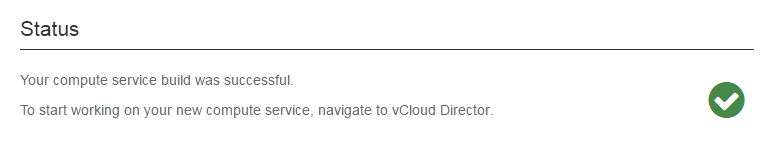
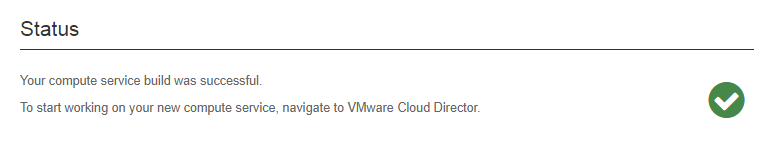
VMware getting started updates

Changed region(s): [[0.0, 0.6667, 0.6512, 0.8], [0.0, 0.48, 0.3721, 0.5867]]

diff --git a/articles/vmware/vmw-gs.md b/articles/vmware/vmw-gs.md
@@ -4,7 +4,7 @@ description: Provides information to get up and running with UKCloud for VMware
 services: vmware
 author: shighmoor
 reviewer: shighmoor
-lastreviewed: 10/09/2020
+lastreviewed: 24/09/2021
 
 toc_rootlink: Getting Started
 toc_sub1:
@@ -20,23 +20,19 @@ toc_mdlink: vmw-gs.md
 
 ## Overview
 
-If you're new to UKCloud, you'll probably have received a link to this guide as part of your welcome email. It will help you to get started using UKCloud for VMware.
+UKCloud for VMware is a trusted, connected and flexible cloud, based on VMware technology, that enables you to either migrate existing workloads or create new workloads on our secure sovereign cloud platform quickly and easily whilst enjoying the economies of scale of the cloud.
 
-The Getting Started Guide provides an overview of UKCloud for VMware and gives you basic information about how to log in and set up your environment.
+This Getting Started Guide helps get you up and running using UKCloud for VMware, providing basic information about how to log in and set up your environment.
 
 ### Intended audience
 
-To complete the steps in this guide you must have access to the UKCloud Portal and VMware Cloud Director. To build compute services and virtual data centres (VDCs) you must be a VMware Cloud Director administrator.
-
-## Before you begin
-
-You should have received your UKCloud Portal login credentials from your Service Delivery Manager (SDM).
+This article is intended for any new UKCloud for VMware user. To complete the steps in this article you must have access to the UKCloud Portal and VMware Cloud Director. To build compute services and virtual data centres (VDCs) you must be a VMware Cloud Director administrator.
 
 ## Introductions to UKCloud for VMware
 
-We understand that each enterprise application has its own set of technical and service requirements that must be addressed on an individual basis. UKCloud for VMware is highly configurable, and gives you the flexibility to use different service levels, VM sizes, security domains, connectivity and data protection options.
+We understand that each enterprise application has its own set of technical and service requirements that must be addressed on an individual basis. UKCloud for VMware is highly configurable and gives you the flexibility to use different service levels, VM sizes, security domains, connectivity and data protection options.
 
-You can build completely tailored solutions by mixing and matching service options. The choice doesn't lock you to one service or size and you can always change it later.
+You can build completely tailored solutions by mixing and matching service options. The choice doesn't lock you in to one service or size and you can always change it later.
 
 Services within UKCloud belong to an account, which in turn belongs to a company. A company can own multiple accounts. You can use accounts to create separate environments for different projects or, in the case of UKCloud partners, to create separate environments for different customers. Within an account you can have multiple UKCloud services, one of which could be UKCloud for VMware. You can have multiple instances of a service within an account.
 
@@ -44,31 +40,17 @@ Services within UKCloud belong to an account, which in turn belongs to a company
 
 ## Logging in to the UKCloud Portal
 
-The first thing you need to do to get started with UKCloud for VMware is to log in to the UKCloud Portal.
+You access your UKCloud for VMware environment through the UKCloud Portal, so the first thing you need to do to get started is to log in to the Portal.
 
-1. Go to the appropriate URL, depending on the security domain in which your service is located:
+The location of the Portal depends on the security domain your service is located in:
 
-    - **Assured OFFICIAL:** <https://portal.ukcloud.com>
+- **Assured OFFICIAL:** <https://portal.ukcloud.com>
 
-    - **Elevated OFFICIAL:** Contact your Portal administrator or SDM
+- **Elevated OFFICIAL:** Contact your Portal administrator, your Service Delivery Manager (or <servicedelivery@ukcloud.com>), or UKCloud Support (call 01252 303 300 and select option 2)
 
-2. On the *Log in* page, enter your credentials and click **Sign in**.
+You'll need your Portal credentials, which you should have received from your Portal administrator or the Service Delivery team. You may also need to set up two-factor authentication (2FA).
 
-    ![UKCloud Portal Log in page](images/ptl-login.png)
-
-    > [!TIP]
-    > If you've forgotten your password, click the **Forgotten password?** link to request a password reset.
-
-    If this is the first time you've logged in, use the temporary password you were given by your Portal administrator or SDM. You'll be prompted to change this temporary password.
-
-3. If your Portal administrator has enabled two-factor authentication (2FA), you'll be prompted to enter a six digit code. Use your 2FA app to generate the code and enter it here. (If this is the first time you've logged in, you'll be prompted to set up 2FA.)
-
-    ![Two-Factor Authentication dialog box](images/vmw-portal-2fa.png)
-
-    > [!NOTE]
-    > If you incorrectly enter your password three times, you'll be prompted to enter a captcha code until you successfully log in. If you incorrectly enter the captcha code or your password another three times, a seventh unsuccessful login attempt will result in your account being locked. You'll need to contact your Portal administrator to unlock your account.
-
-For more information about the UKCloud Portal and all the functionality it provides, see the [*Getting Started Guide for the UKCloud Portal*](../portal/ptl-gs.md).
+For detailed instructions for how to log in to the Portal, and for more information about all the functionality it provides, see the [*Getting Started Guide for the UKCloud Portal*](../portal/ptl-gs.md).
 
 ## Creating your UKCloud for VMware estate
 
@@ -148,11 +130,11 @@ After creating your compute service, the next step is to create one or more VDCs
 
 3. On the *Build VDC* page, from the **VM Type** radio buttons, select the option that describes the characteristics of the workload of the VDC:
 
-    - **ESSENTIAL**---For lower priority workloads, such as temporary applications, data processing or system modelling tasks. VMs in the VDC can have contended compute resource allocation (CPU/RAM) and automated rebalancing is enabled to ensure the workload receives the requested performance.
+    - **ESSENTIAL.** For lower priority workloads, such as temporary applications, data processing or system modelling tasks. VMs in the VDC can have contended compute resource allocation (CPU/RAM) and automated rebalancing is enabled to ensure the workload receives the requested performance.
 
-    - **POWER**---For key workloads that are resource intensive, such as web and application workloads, mid-sized databases and caching services. VMs in the VDC have an uncontended compute resource allocation and automated rebalancing is enabled to pre-emptively optimise performance and availability.
+    - **POWER.** For key workloads that are resource intensive, such as web and application workloads, mid-sized databases and caching services. VMs in the VDC have an uncontended compute resource allocation and automated rebalancing is enabled to pre-emptively optimise performance and availability.
 
-    - **PRIORITY**---For critical workloads that handle important business processes that benefit from a steady state of operation. VMs in the VDC have an uncontended compute resource allocation and automated rebalancing is configured to reduce workload movement around the platform.
+    - **PRIORITY.** For critical workloads that handle important business processes that benefit from a steady state of operation. VMs in the VDC have an uncontended compute resource allocation and automated rebalancing is configured to reduce workload movement around the platform.
 
 4. Enter a **VDC Name**.
 
@@ -192,7 +174,7 @@ After you've created your compute service and VDC, you can start to build up you
 
     ![vCloud Director tab in UKCloud Portal](images/vmw-portal-vcd-login.png)
 
-3. VMware Cloud Director launches in your browser window. The version depends on where your service is located within the UKCloud platform.
+3. VMware Cloud Director launches in your browser window.
 
     ![VMware Cloud Director Home page](images/vmw-vcd10.1-home-page.png)
 
